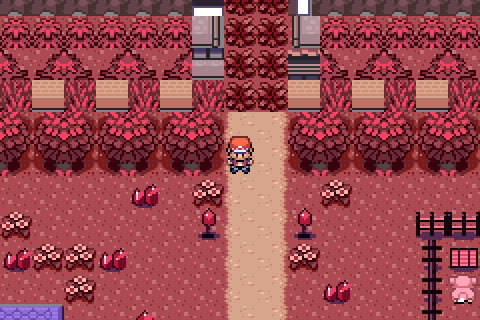
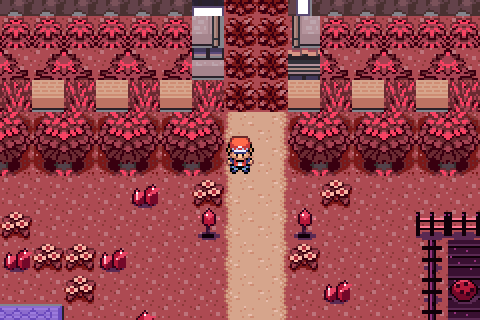
Grenalux: jardin de baies decoratif a cote du ranch (plus de grange en double)
Claude-Session: https://claude.ai/code/session_01GQJ6VBZbBVtTh4mURN6n2L

Changed region(s): [[0.9062, 0.75, 1.0, 1.0]]

diff --git a/docs/topaze/grenalux_town.py b/docs/topaze/grenalux_town.py
@@ -31,7 +31,7 @@ def put(x, y, v): G[(x, y)] = v
 def claim(x, y, w, h, name):
     for j in range(h):
         for i in range(w):
-            if OCC.get((x + i, y + j)) == 'enclos' and name in ('foin', 'abreuvoir'): continue     # objets poses dans un enclos
+            if OCC.get((x + i, y + j)) == 'enclos' and name in ('foin', 'abreuvoir', 'baie'): continue     # objets poses dans un enclos
             assert (x + i, y + j) not in OCC, 'chevauchement %s avec %s en %s' % (name, OCC[(x + i, y + j)], (x + i, y + j))
             assert 1 <= x + i <= W - 2 and 0 <= y + j <= H - 3, (name, x + i, y + j)
             OCC[(x + i, y + j)] = name
@@ -114,10 +114,20 @@ for (x, y) in ((21, 3), (24, 3), (21, 7), (24, 7), (10, 11), (18, 11), (26, 11),
     one(x, y, C.LAMP, 'lampe')
 for (x, y) in ((38, 17), (41, 14), (41, 19), (38, 21), (41, 22), (37, 24), (41, 11), (41, 18)): one(x, y, C.ROCK, 'rocher')
 for (x, y) in ((10, 9), (37, 9), (36, 22), (11, 21), (21, 10), (10, 15)): one(x, y, 3, 'panneau')
-# ---- reserve du ranch : grange a grain + silo (le vrai ranch est a l'est, derriere les arbres)
-place_sm(C.BARN, 27, 4, 5, 4, 'grange a grain'); place_sm(C.SILO, 32, 3, 2, 4, 'silo')
-for (x, y) in ((31, 8), (32, 8), (32, 9)): one(x, y, C.HAY, 'foin')
-one(33, 8, C.TROUGH, 'abreuvoir')
+# ---- jardin de baies du ranch (decoratif, baies non recoltables) a l'ouest du ranch
+def pen(x0, y0, x1, y1, gaps, name):
+    for x in range(x0, x1 + 1):
+        for y in (y0, y1):
+            if (x, y) not in gaps: one(x, y, C.FENCE_H, name)
+    for y in range(y0 + 1, y1):
+        for x in (x0, x1):
+            if (x, y) not in gaps: one(x, y, C.FENCE_V, name)
+    claim(x0 + 1, y0 + 1, x1 - x0 - 1, y1 - y0 - 1, 'enclos')
+pen(28, 3, 33, 9, {(30, 9), (31, 9)}, 'cloture jardin')
+for y in range(4, 9):
+    for x in range(29, 33): put(x, y, walk(C.SOIL))
+for k, x in enumerate(range(29, 33)):
+    one(x, 5, C.BUSH[(0, 1, 2, 0)[k]], 'baie'); one(x, 7, C.BUSH[(2, 0, 1, 2)[k]], 'baie')
 for _x in range(20, 25):
     for _y in range(20, 25):
         if (_x, _y) not in OCC: claim(_x, _y, 1, 1, 'ilot')
@@ -141,7 +151,7 @@ def rect(x0, y0, x1, y1):
             PATH.add((x, y))
 rect(GATE_X, 0, GATE_X + 1, 19)
 rect(7, 12, 40, 13)
-rect(7, 10, 8, 11); rect(35, 9, 36, 11); rect(29, 8, 30, 11); rect(39, 6, 43, 7)
+rect(7, 10, 8, 11); rect(35, 9, 36, 11); rect(30, 9, 31, 11); rect(39, 6, 43, 7)
 rect(16, 18, 29, 26)
 rect(7, 22, 8, 25); rect(7, 24, 15, 25)
 rect(34, 22, 35, 25); rect(30, 24, 35, 25); rect(36, 25, 41, 26)
@@ -212,8 +222,8 @@ while placed < 14 and tries < 3000:
     if G[(x, y)] in (GRASS, FLOWER) and (x, y) not in OCC and (x, y) not in PATH and not near(x, y, 1):
         put(x, y, 0x400 | rnd.choice(C.SM)); claim(x, y, 1, 1, 'petit cristal'); placed += 1
 # ---- PNJ d'ambiance (cases reservees) ; coordonnees reprises par grenalux_events.py
-NPC = {'granary': (28, 9), 'miner': (41, 26), 'oldman': (19, 22), 'girl': (17, 30), 'boy': (29, 31), 'scientist': (33, 23), 'lady': (36, 23)}
-for k, c in NPC.items(): assert (c not in OCC or OCC[c] == 'enclos') and G[c] in (GRASS, FLOWER) or c in PATH, (k, c, hex(G[c]))
+NPC = {'gardener': (31, 8), 'miner': (41, 26), 'oldman': (19, 22), 'girl': (17, 30), 'boy': (29, 31), 'scientist': (33, 23), 'lady': (36, 23)}
+for k, c in NPC.items(): assert (c not in OCC or OCC[c] == 'enclos') and G[c] in (GRASS, FLOWER, walk(C.SOIL)) or c in PATH, (k, c, hex(G[c]))
 json.dump(NPC, open('/tmp/grenalux_npc.json', 'w'))
 # ---- ecriture
 g = [G[(x, y)] for y in range(H) for x in range(W)]

diff --git a/docs/topaze/grenalux_crystals.py b/docs/topaze/grenalux_crystals.py
@@ -157,6 +157,21 @@ def silo():
     d.pieslice((2, 2, 29, 26), 180, 360, fill=7, outline=14); d.pieslice((6, 4, 20, 18), 190, 330, fill=8)
     d.rectangle((13, 0, 18, 4), fill=6, outline=14); d.rectangle((12, 46, 19, 60), fill=14); d.rectangle((13, 48, 18, 60), fill=12)
     return im, 2, 4
+
+def soil():
+    im = ground_bg(16, 16); d = ImageDraw.Draw(im)
+    d.rectangle((0, 0, 15, 15), fill=12)
+    for y in (2, 7, 12): d.line([(0, y), (15, y)], fill=11); d.line([(0, y + 1), (15, y + 1)], fill=14)
+    for (x, y) in ((3, 4), (9, 5), (13, 10), (5, 11), (11, 14), (1, 8)): d.point((x, y), fill=13)
+    return im
+def bush(var):
+    cols = [15, 10, 13][var]
+    im = soil(); d = ImageDraw.Draw(im)
+    shadow(d, 2, 11, 14, 15)
+    d.ellipse((1, 3, 14, 14), fill=6, outline=14); d.ellipse((3, 4, 12, 10), fill=7)
+    d.arc((2, 4, 13, 13), 200, 300, fill=8)
+    for (x, y) in ((4, 6), (8, 5), (11, 8), (6, 9), (9, 10)): d.rectangle((x, y, x + 1, y + 1), fill=cols, outline=5 if var != 1 else 14)
+    return im
 # ---- registre
 mt = bytearray(open(D + 'metatiles.bin', 'rb').read()); att = bytearray(open(D + 'metatile_attributes.bin', 'rb').read())
 NMT = len(mt) // 16
@@ -175,9 +190,9 @@ def meta(block):
     mt.extend(struct.pack('<8H', *ents)); att.extend(struct.pack('<I', 0))
     return 640 + len(mt) // 16 - 1
 def slice_all(im, bw, bh): return {(i, j): meta(im.crop((i * 16, j * 16, i * 16 + 16, j * 16 + 16))) for j in range(bh) for i in range(bw)}
-BIG = slice_all(*big()); MID = slice_all(*mid()); SM = [meta(small(0)), meta(small(1))]
+BIG = slice_all(*big()); MID = {}; SM = [meta(small(0)), meta(small(1))]
 LAMP = meta(lamp()); BOUL = [slice_all(*boulder(0)), slice_all(*boulder(1))]; ROCK = meta(rock()); MINE = slice_all(*mine())
-BARN = slice_all(*barn()); SILO = slice_all(*silo()); FENCE_H = meta(fence_h()); FENCE_V = meta(fence_v()); HAY = meta(hay()); TROUGH = meta(trough())
+SOIL = meta(soil()); BUSH = [meta(bush(0)), meta(bush(1)), meta(bush(2))]; BARN = slice_all(*barn()); SILO = slice_all(*silo()); FENCE_H = meta(fence_h()); FENCE_V = meta(fence_v()); HAY = meta(hay()); TROUGH = meta(trough())
 assert NT + len(tiles) <= 384, NT + len(tiles)
 open(D + 'metatiles.bin', 'wb').write(mt); open(D + 'metatile_attributes.bin', 'wb').write(att)
 rows = (NT + len(tiles) + 15) // 16

diff --git a/docs/topaze/grenalux_events.py b/docs/topaze/grenalux_events.py
@@ -61,8 +61,8 @@ AMB = [('MINER', 'miner', 'OBJ_EVENT_GFX_WORKER_M', 'MOVEMENT_TYPE_FACE_LEFT',
         ['I found a tiny crystal by the pond.', 'It glows if you hold it up to the sun!']),
        ('SCIENTIST', 'scientist', 'OBJ_EVENT_GFX_SCIENTIST', 'MOVEMENT_TYPE_FACE_UP',
         ['The lab measures the aura of every', 'crystal in town. The readings keep', 'rising, and nobody knows why.']),
-       ('GRANARY', 'granary', 'OBJ_EVENT_GFX_WORKER_M', 'MOVEMENT_TYPE_FACE_UP',
-        ['This is the ranch feed store.', 'Hay and grain for every animal.', 'The pens are out east, past the trees.']),
+       ('GARDENER', 'gardener', 'OBJ_EVENT_GFX_WORKER_F', 'MOVEMENT_TYPE_FACE_DOWN',
+        ['These berries feed the ranch animals.', 'They are not for picking, sorry!', 'The pens are out east, past the trees.']),
        ('LADY', 'lady', 'OBJ_EVENT_GFX_BEAUTY', 'MOVEMENT_TYPE_FACE_RIGHT',
         ['Garnet is the stone of this town.', 'Red roofs, red trees, red stone...', 'Even the grass blushes here.'])]
 txt = open('data/maps/PalletTown/text.inc').read(); scr = open('data/maps/PalletTown/scripts.inc').read()

diff --git a/docs/technique/ARCHITECTURE.md b/docs/technique/ARCHITECTURE.md
@@ -46,7 +46,7 @@ Le dépôt est celui de pokefirered ; seuls les éléments modifiés pour Topaze
 | **Musée de Grenalux** (nouvelle carte) | `data/maps/PalletTown_Museum/` (intérieur = disposition du Musée de Pyropia (ex-Argenta), PNJ/textes propres), façade ajoutée dans `data/layouts/PalletTown/map.bin` à la place du jardin (copie des tuiles de la maison du joueur), warp 3 de `PalletTown/map.json` ; outils : `tools/topaze/maps/mapkit.py` |
 | **Grenalux v3 – décors GBA d'Émeraude, plan original** | `docs/topaze/import_emerald_tiles.py` importe les tilesets d'Émeraude (`gTileset_GeneralEmerald`, `gTileset_PetalburgEmerald`, sans animation d'eau) depuis le dépôt public pret/pokeemerald (à cloner dans `../pokeemerald`) ; `docs/topaze/grenalux_emerald.py` assemble le village (maisons, labo, musée copiés d'Émeraude, chemins en sable auto-tuilés, bassin sud relié à la route 21, arbres, fleurs, panneaux) et branche `LAYOUT_PALLET_TOWN` sur ces tilesets. Portes : joueur (6,7), ranch (18,6), labo (18,14), musée (6,14). **Thème GRENAT** : `grenat_palette.py` recolore les palettes (végétation bordeaux, sable rosé, eau violet nuit, toits grenat) et `grenalux_crystals.py` dessine par code des cristaux de grenat (2 grandes grappes, 1 moyenne, petits cristaux ; palette secondaire 7). Ordre de régénération : `import_emerald_tiles.py` → `grenat_palette.py` → `grenalux_emerald.py` → `grenalux_crystals.py`. Ancienne version dessinée à la main : `grenalux_original.py` (v2, conservée pour mémoire). Les trajets des cinématiques sont recalculés (Dijkstra sur la grille de collision) et écrits dans `PalletTown/scripts.inc`. |
 | **Grenalux v5 – grande ville 44×36 (référence v5)** | `docs/topaze/grenalux_big.py` (ordre : `import_emerald_tiles.py` → `grenat_palette.py` → `grenalux_big.py`) : avenue nord-sud, grande rue est-ouest, place centrale avec îlot et monument de cristal, bassin sud relié à la route 21, 4 bâtiments utiles (joueur (8,9), ranch (36,8), labo (35,21), musée (8,21)) et 6 maisons décoratives, potager, ~34 arbres, cristaux. Connexions : route 1 décalée de 10 (ouverture en x=22..23), route 21 décalée de 14 (eau en x=21..23). `heal_locations.json` : respawn (8,10). **La v4 (24×20) reste la référence** : branche `grenalux-v4-reference` et `docs/topaze/reference/` (carte, map.json, scripts, image) ; ses scripts (`grenalux_emerald.py`, `grenalux_crystals.py` en `__main__`) restent exécutables mais il faut alors remettre les dimensions 24×20 dans `layouts.json` et `map.json`. |
-| **Grenalux v6 – ville vivable (version actuelle)** | `docs/topaze/grenalux_town.py` puis `grenalux_events.py` (ordre : `import_emerald_tiles.py` → `grenat_palette.py` → `git checkout fa8f0d0 -- data/layouts/layouts.json` → `grenalux_town.py` → `grenalux_events.py`). Plan d'occupation avec assertions (aucun chevauchement, portes et PNJ atteignables), toits en variantes de palette (11 ardoise-violet, 12 ocre), lampadaires de cristal, cristaux gardiens de l'avenue, carrière de blocs + entrée de mine à l'est, bassin avec promenade, potager, bosquets, chemins de portes par BFS, 6 PNJ d'ambiance (textes provisoires). **Ranch** : maison voisine remplacée par la réserve du ranch (grange à grain + silo dessinés par code dans `grenalux_crystals.py`, comme les clôtures, le foin et l'abreuvoir) ; panneau du ranch en (37,9). Pas de moulin dans les tilesets officiels FR/Émeraude, d'où la grange et le silo faits maison. **Grand ranch** : carte `PalletTown_Ranch` (32×24, groupe 4 n°5, layout `LAYOUT_PALLET_TOWN_RANCH`), généré par la 2ᵉ partie de `grenalux_town.py` puis `grenalux_ranch_events.py` ; accessible par l'ouverture du cadre d'arbres à l'est de Grenalux (x=42..43, y=6..7, connexion « droite » décalage 0) : écurie, grange + silo, 3 enclos, cristaux, ouvriers, fillette, animaux. **Avant/après l'attaque** (`FLAG_GRENALUX_ONYBRIS_STRIKE`) : clôture est de l'enclos B intacte puis ouverte (`setmetatile` au chargement), Doduo et 2 Nidoran (Pokémon pisteurs) présents puis disparus, ouvrier au pied de la clôture coupée (`FLAG_HIDE_RANCH_CUT_HAND`) visible seulement après, dialogues des ouvriers changés. Mêmes portes/coordonnées d'événements que la v5 sauf panneau du labo (36,22). Les versions v4 (24×20) et v5 (44×36) restent archivées : branches `grenalux-v4-reference`, `grenalux-v5-reference` et `docs/topaze/reference/`. |
+| **Grenalux v6 – ville vivable (version actuelle)** | `docs/topaze/grenalux_town.py` puis `grenalux_events.py` (ordre : `import_emerald_tiles.py` → `grenat_palette.py` → `git checkout fa8f0d0 -- data/layouts/layouts.json` → `grenalux_town.py` → `grenalux_events.py`). Plan d'occupation avec assertions (aucun chevauchement, portes et PNJ atteignables), toits en variantes de palette (11 ardoise-violet, 12 ocre), lampadaires de cristal, cristaux gardiens de l'avenue, carrière de blocs + entrée de mine à l'est, bassin avec promenade, potager, bosquets, chemins de portes par BFS, 6 PNJ d'ambiance (textes provisoires). **Ranch** : maison voisine remplacée par un **jardin de baies décoratif** (parcelle clôturée, buissons à baies non récoltables, jardinière qui l'explique) ; panneau du ranch en (37,9). Clôtures, foin, abreuvoir, buissons, grange et silo (grand ranch) sont dessinés par code dans `grenalux_crystals.py` (pas de moulin/grange dans les tilesets officiels FR/Émeraude). **Grand ranch** : carte `PalletTown_Ranch` (32×24, groupe 4 n°5, layout `LAYOUT_PALLET_TOWN_RANCH`), généré par la 2ᵉ partie de `grenalux_town.py` puis `grenalux_ranch_events.py` ; accessible par l'ouverture du cadre d'arbres à l'est de Grenalux (x=42..43, y=6..7, connexion « droite » décalage 0) : écurie, grange + silo, 3 enclos, cristaux, ouvriers, fillette, animaux. **Avant/après l'attaque** (`FLAG_GRENALUX_ONYBRIS_STRIKE`) : clôture est de l'enclos B intacte puis ouverte (`setmetatile` au chargement), Doduo et 2 Nidoran (Pokémon pisteurs) présents puis disparus, ouvrier au pied de la clôture coupée (`FLAG_HIDE_RANCH_CUT_HAND`) visible seulement après, dialogues des ouvriers changés. Mêmes portes/coordonnées d'événements que la v5 sauf panneau du labo (36,22). Les versions v4 (24×20) et v5 (44×36) restent archivées : branches `grenalux-v4-reference`, `grenalux-v5-reference` et `docs/topaze/reference/`. |
 | Ville de départ Grenalux | `PalletTown` (`text.inc`), `region_map_entry_strings.h` |
 | Rival par défaut ZEPHYR | `data/text/new_game_intro.inc` |
 | Team Onybris | ~58 fichiers (classe de dresseur + dialogues), remplacement de « TEAM ROCKET » / « ROCKET » dans les `.string` uniquement |
